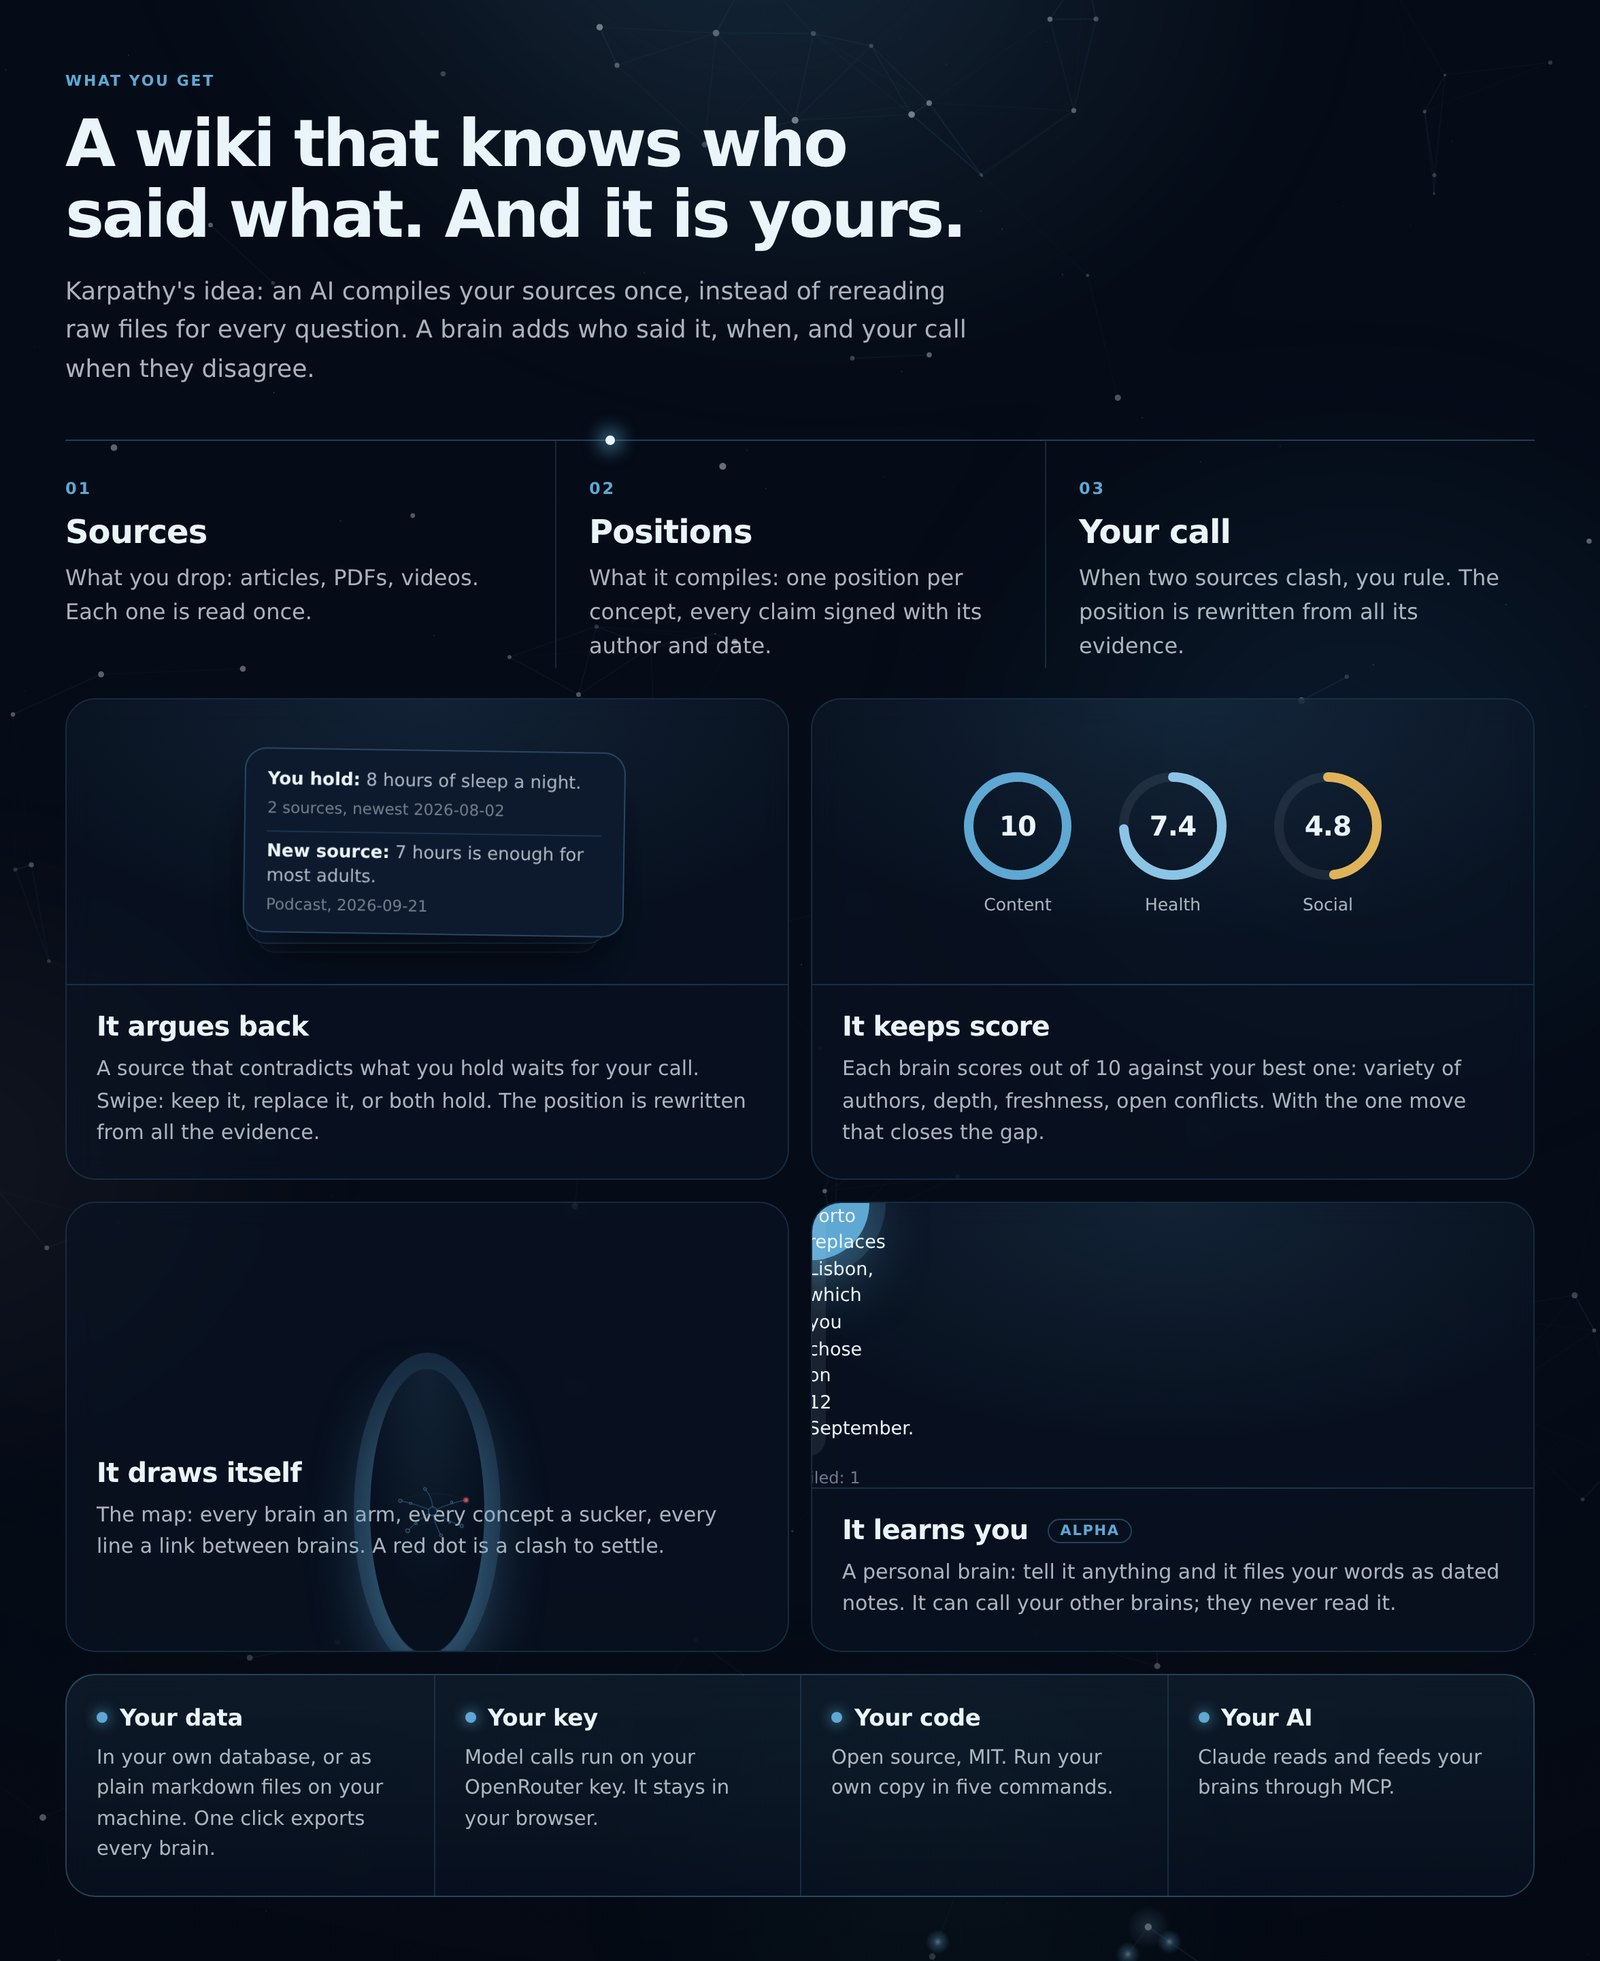
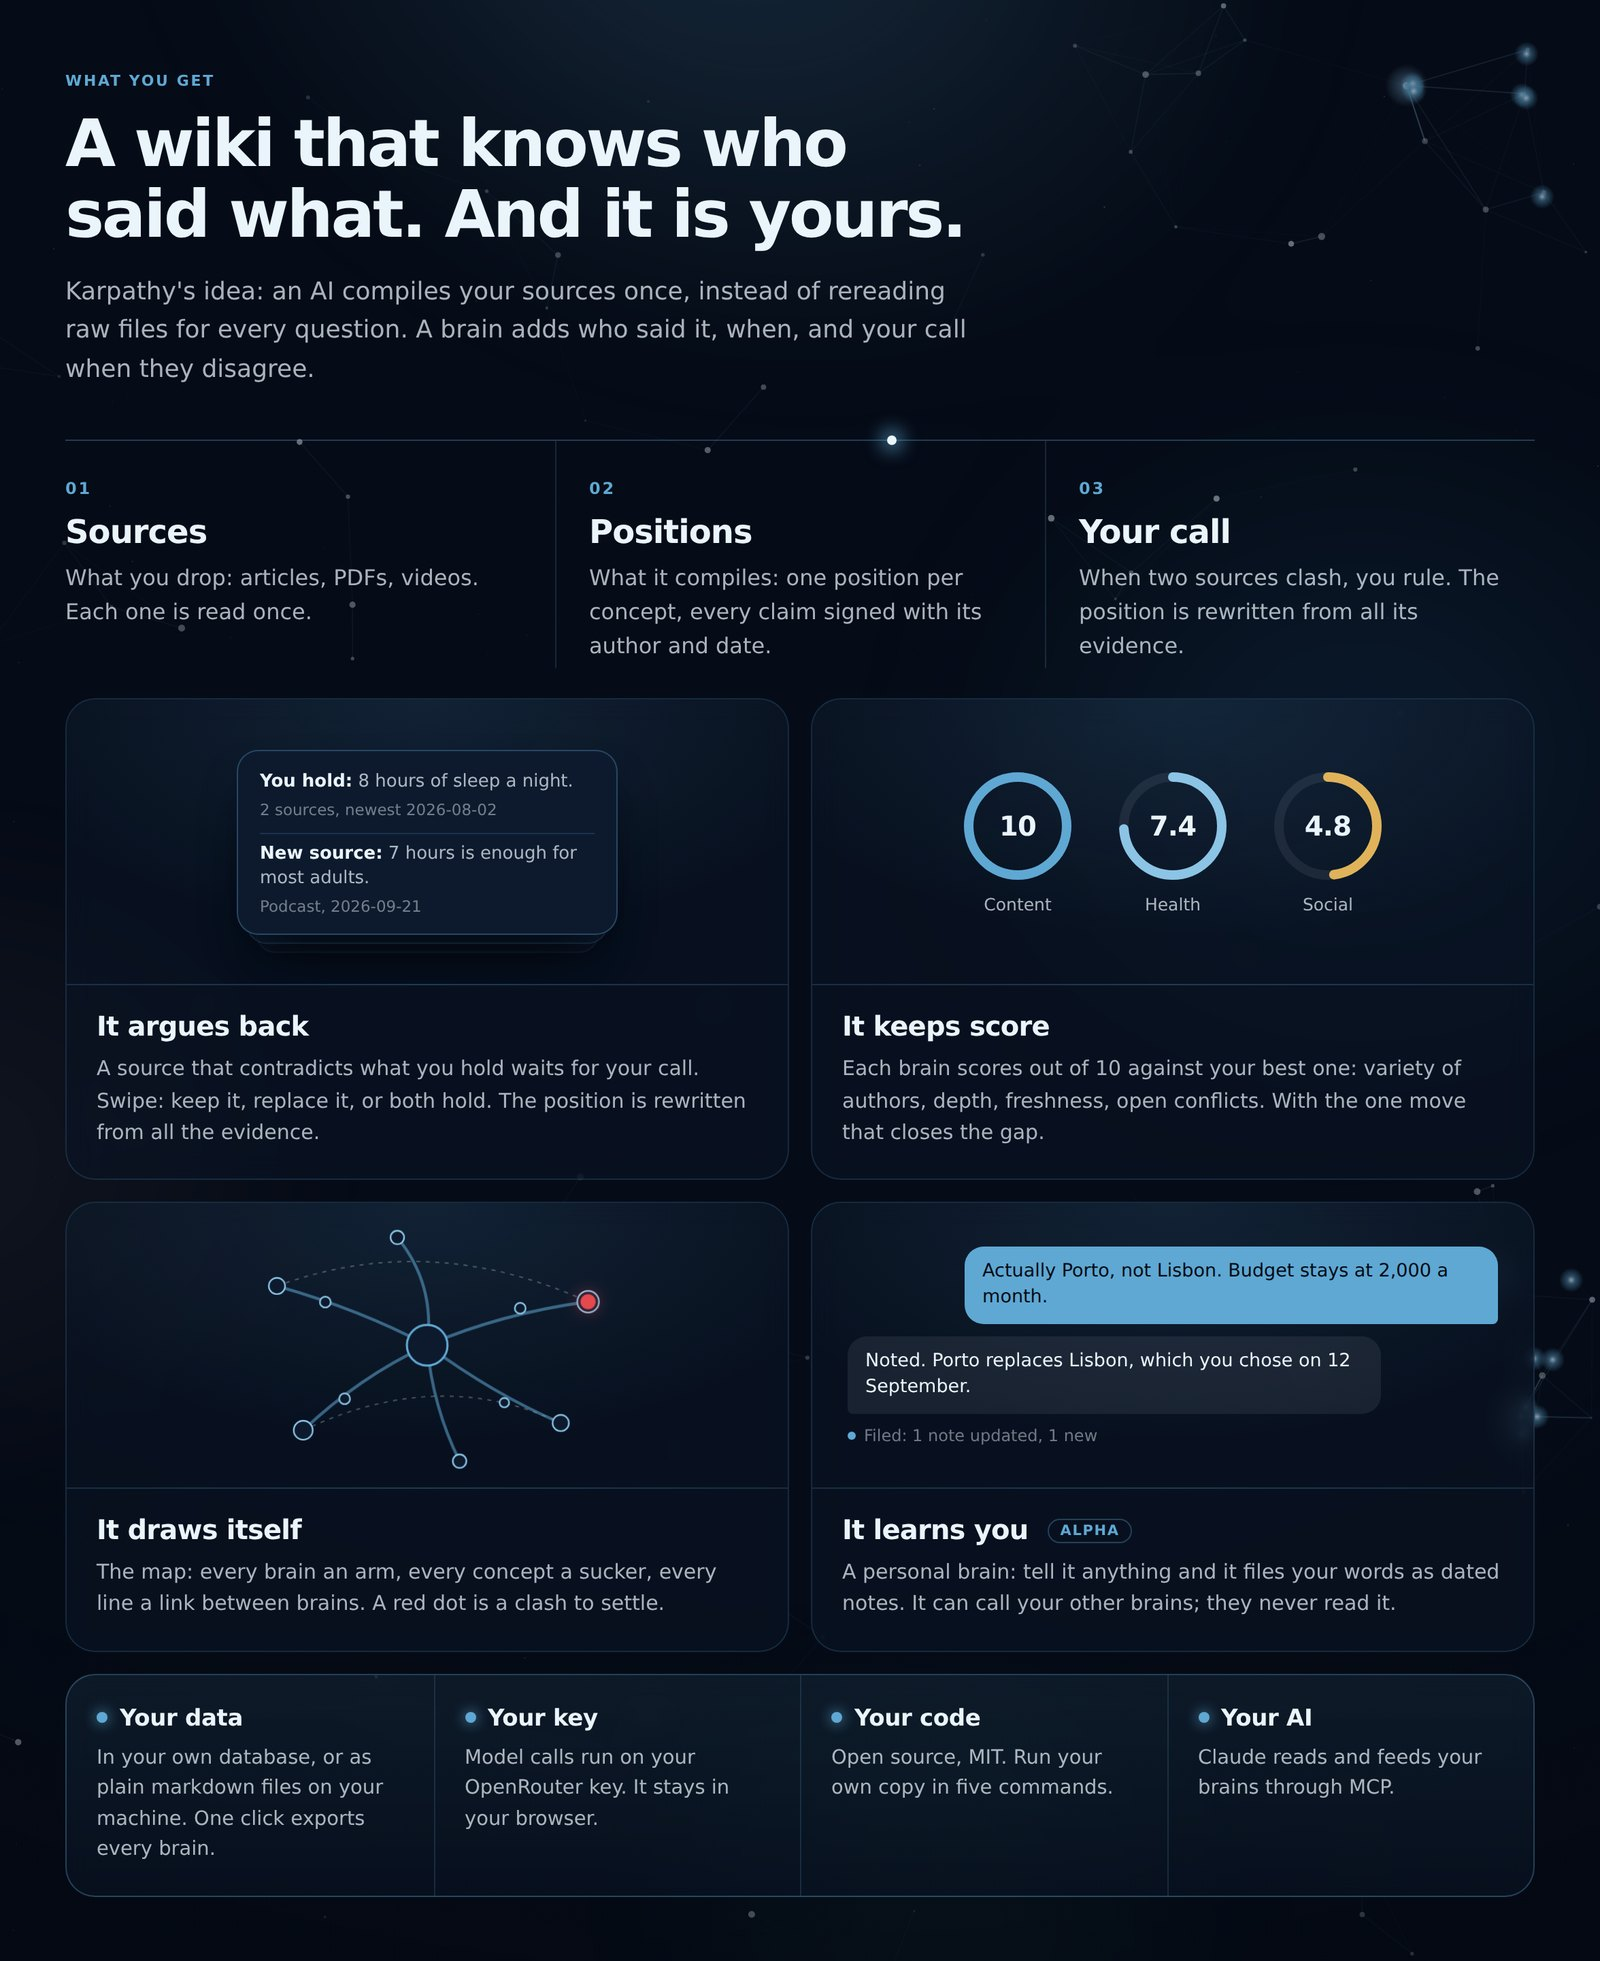
Fix the map and chat cards: a class name clash
The video's play button and the map and chat cards shared the class name
play, so once a card started playing it took the button's shape: an
84 pixel circle. The button is playbtn now, a check measures both cards
while they play, and the README shot is taken again.

Claude-Session: https://claude.ai/code/session_01NRWPtT3uQhafrf1yBXPVRY

diff --git a/app/index.html b/app/index.html
@@ -178,11 +178,11 @@
   .vid img{ width:100%; height:100%; object-fit:cover; display:block; filter:brightness(.62) saturate(.9); transition:filter .4s var(--ease); }
   .vid .shade{ position:absolute; inset:0; background:radial-gradient(60% 60% at 50% 50%, rgba(5,11,22,.15), rgba(5,11,22,.7)); pointer-events:none; }
   .vid iframe, .vid video{ position:absolute; inset:0; width:100%; height:100%; border:0; background:#000; }
-  .play{ position:absolute; left:50%; top:50%; width:84px; height:84px; margin:-42px 0 0 -42px; border-radius:50%; border:0; cursor:pointer;
+  .playbtn{ position:absolute; left:50%; top:50%; width:84px; height:84px; margin:-42px 0 0 -42px; border-radius:50%; border:0; cursor:pointer;
     background:var(--blue); color:var(--ink); display:grid; place-items:center; box-shadow:0 0 0 12px rgba(95,168,211,.18), 0 20px 50px -10px rgba(95,168,211,.7);
     transition:transform .25s var(--ease), box-shadow .25s; }
-  .play svg{ width:34px; height:34px; fill:currentColor; margin-left:4px; }
-  @media (hover:hover){ .vid:hover img{ filter:brightness(.75); } .play:hover{ transform:scale(1.06); box-shadow:0 0 0 18px rgba(95,168,211,.16), 0 20px 50px -10px rgba(95,168,211,.8); } }
+  .playbtn svg{ width:34px; height:34px; fill:currentColor; margin-left:4px; }
+  @media (hover:hover){ .vid:hover img{ filter:brightness(.75); } .playbtn:hover{ transform:scale(1.06); box-shadow:0 0 0 18px rgba(95,168,211,.16), 0 20px 50px -10px rgba(95,168,211,.8); } }
   .vcap{ position:absolute; left:22px; bottom:18px; font-size:14px; font-weight:600; color:var(--ice); letter-spacing:-.01em; text-shadow:0 2px 12px rgba(0,0,0,.6); }
 
   /* Inside a brain: four things it does, each shown moving. */
@@ -411,7 +411,7 @@
     <section class="band video-band" id="video" hidden><div class="wide">
       <div class="vid" id="vid">
         <img src="/brand/video-poster.jpg" alt="" loading="lazy"><span class="shade"></span>
-        <button class="play" id="play" type="button" aria-label="Play the demo video">
+        <button class="playbtn" id="play" type="button" aria-label="Play the demo video">
           <svg viewBox="0 0 24 24" aria-hidden="true"><path d="M8 5.5v13l11-6.5z"/></svg></button>
         <span class="vcap">Brain in 2 minutes</span>
       </div>

diff --git a/README.md b/README.md
@@ -10,7 +10,7 @@ Feed it the people and sources you trust. Ask anything, and see who said it.
 
 [**Open the live demo**](https://brain.jeremylasne.com) &nbsp;·&nbsp; [How it works](#how-it-works) &nbsp;·&nbsp; [Run your own](#run-your-own)
 
-<img alt="676 checks passing" src="https://img.shields.io/badge/checks-676%20passing-5fa8d3?style=flat-square&labelColor=050b16">
+<img alt="677 checks passing" src="https://img.shields.io/badge/checks-677%20passing-5fa8d3?style=flat-square&labelColor=050b16">
 <img alt="Live demo, no sign-up" src="https://img.shields.io/badge/demo-no%20sign--up-5fa8d3?style=flat-square&labelColor=050b16">
 <img alt="One-pagers in 9 languages" src="https://img.shields.io/badge/one--pagers-9%20languages-5fa8d3?style=flat-square&labelColor=050b16">
 <img alt="MIT license" src="https://img.shields.io/badge/license-MIT-5fa8d3?style=flat-square&labelColor=050b16">
@@ -187,7 +187,7 @@ Point `window.OCTOPUS_API` in the pages under `app/` at your deployment's `.conv
 ```
 app/            the landing, the app (one file) and the connector page
 convex/         the server: routes, store, drop, one-pager, health, conflicts, personal
-scripts/        676 checks, the app driven in a real browser included
+scripts/        677 checks, the app driven in a real browser included
 docs/           the 41 rules (PROTOCOL.md), the server build (SERVER.md), the screenshots
 skill/brain/    the same behaviour, as a Claude Code skill
 templates/      the markdown shape of a brain
@@ -201,7 +201,7 @@ templates/      the markdown shape of a brain
 npm run check
 ```
 
-676 checks: the pages parse and bind, the Claude connector, the store and its workspaces, one-pagers, asking, linking, the health score, the personal brain, and the app itself driven in a real browser.
+677 checks: the pages parse and bind, the Claude connector, the store and its workspaces, one-pagers, asking, linking, the health score, the personal brain, and the app itself driven in a real browser.
 
 <br>
 
